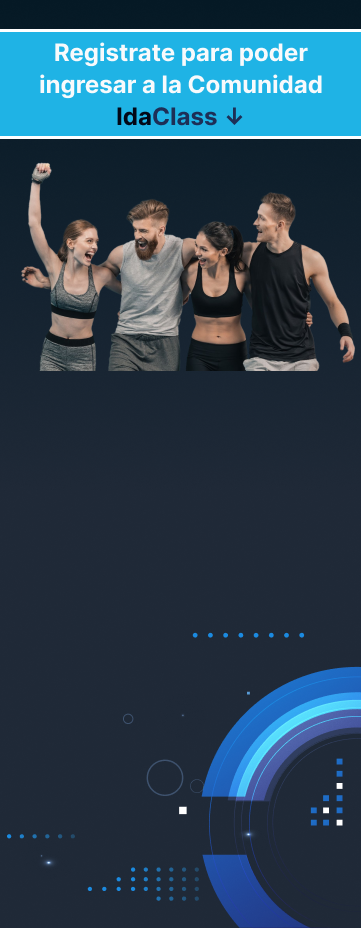
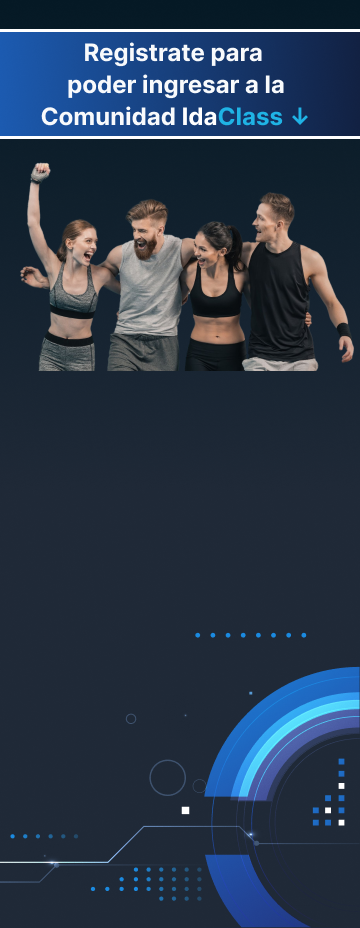
cambios en registro se agrego la forma de registro a la comunidad

diff --git a/app/signin/_components/registerForm.jsx b/app/signin/_components/registerForm.jsx
@@ -1,3 +1,4 @@
+"use client"
 import { Button } from "@/components/ui/button";
 import { zodResolver } from "@hookform/resolvers/zod";
 import { useForm } from "react-hook-form";
@@ -41,14 +42,14 @@ const RegisterForm = () => {
 
   return (
     <Form {...form}>
-      <form onSubmit={form.handleSubmit(onSubmit)} className="space-y-4 ">
+      <form onSubmit={form.handleSubmit(onSubmit)} className="space-y-1">
         <div className="flex max-sm:flex-col max-sm:space-y-4 sm:space-x-4">
           <FormField
             control={form.control}
             name="nombre"
             render={({ field }) => (
               <FormItem>
-                <FormLabel className="text-white">Nombre</FormLabel>
+                <FormLabel className="">Nombre</FormLabel>
                 <FormControl>
                   <Input placeholder="Nombre" {...field} />
                 </FormControl>
@@ -62,7 +63,7 @@ const RegisterForm = () => {
             name="apellido"
             render={({ field }) => (
               <FormItem>
-                <FormLabel className="text-white">Apellido</FormLabel>
+                <FormLabel className="">Apellido</FormLabel>
                 <FormControl>
                   <Input placeholder="Apellido" {...field} />
                 </FormControl>
@@ -77,7 +78,7 @@ const RegisterForm = () => {
           name="email"
           render={({ field }) => (
             <FormItem>
-              <FormLabel className="text-white">Email</FormLabel>
+              <FormLabel className="">Email</FormLabel>
               <FormControl>
                 <Input placeholder="Email"  {...field} />
               </FormControl>
@@ -91,7 +92,7 @@ const RegisterForm = () => {
           name="password"
           render={({ field }) => (
             <FormItem>
-              <FormLabel className="text-white">Contraseña</FormLabel>
+              <FormLabel className="">Contraseña</FormLabel>
               <FormControl>
                 <Input placeholder="*******" type="password" {...field} />
               </FormControl>
@@ -105,7 +106,7 @@ const RegisterForm = () => {
           name="confirm"
           render={({ field }) => (
             <FormItem>
-              <FormLabel className="text-white" type="password">
+              <FormLabel className="" type="password">
                 Repite tu contraseña
               </FormLabel>
               <FormControl>
@@ -116,9 +117,11 @@ const RegisterForm = () => {
             </FormItem>
           )}
         />
-        <Button type="submit" className="w-full">
+        <div className="pt-3">
+        <Button type="submit" className="w-full rounded-3xl">
           Registrarme
         </Button>
+        </div>
       </form>
     </Form>
   );

diff --git a/app/comunidad/components/ComunidadRegistro.jsx b/app/comunidad/components/ComunidadRegistro.jsx
@@ -1,25 +1,15 @@
 import Image from "next/image";
 import bg from "../../../public/comunidad/ImagendefondoFormulario.png";
 import bgWeb from "../../../public/comunidad/ImagendefondoFormularioWeb.png";
+import RegisterForm from "@/app/signin/_components/registerForm";
 
 const ComunidadRegistro = () => {
   return (
-    <section className="container px-0 my-12 relative min-h-[30rem]">
+    <section className="container px-0 my-12 relative min-h-[32rem]">
       <Image src={bg} alt="" className="object-cover -z-10 max-lg:hidden" />
       <Image src={bgWeb} alt="" className="object-cover -z-10 lg:hidden w-full bg-black"/>
-      <div className="container w-full flex gap-12">
-        {/* <div className="w-full text-white font-bold text-center text-2xl ">
-          <h2 className="mt-8">
-            Registrate para poder ingresar a la <br /> Comunidad Ida
-            <span className="text-idaclass3">
-              Class <ArrowRight className="inline" size={32} strokeWidth={3}/>
-            </span>
-          </h2>
- 
-        </div> */}
-        {/* <div className="w-1/3 ml-auto bg-emerald-200 min-h-[30rem]">
-          <h1>formulario</h1>
-        </div> */}
+      <div className="absolute lg:top-8 top-[35%] right-[50%] translate-x-[50%] bg-gray-100 px-8 py-2 max-w-sm w-full rounded-2xl ">
+      <RegisterForm/>
       </div>
     </section>
   );

diff --git a/app/signin/page.jsx b/app/signin/page.jsx
@@ -12,11 +12,11 @@ import LoginForm from "./_components/loginForm";
 export default function SignIn() {
   return (
     <main className="min-h-[645px] bg-neutral-950 relative flex flex-col justify-start py-12">
-      <div className="container py-4 flex flex-col border-2 border-idaclass3 space-y-4 bg-slate-900 rounded-lg shadow-lg z-10 w-[28rem] max-w-[90vw]">
+      <div className="container py-4 flex flex-col border-2 border-idaclass3 space-y-4 bg-gray-100 rounded-lg shadow-lg z-10 w-[28rem] max-w-[90vw]">
         <Tabs defaultValue="login">
           <TabsList className="grid w-full grid-cols-2">
-            <TabsTrigger value="login">Ingresar</TabsTrigger>
-            <TabsTrigger value="registro">Crear cuenta</TabsTrigger>
+            <TabsTrigger value="login" className={"rounded-l-3xl"}>Ingresar</TabsTrigger>
+            <TabsTrigger value="registro" className={"rounded-r-3xl"}>Crear cuenta</TabsTrigger>
           </TabsList>
           <TabsContent value="login">
             <LoginForm />

diff --git a/components/ui/tabs.jsx b/components/ui/tabs.jsx
@@ -22,7 +22,7 @@ const TabsTrigger = React.forwardRef(({ className, ...props }, ref) => (
   <TabsPrimitive.Trigger
     ref={ref}
     className={cn(
-      "inline-flex items-center justify-center whitespace-nowrap rounded-sm px-3 py-1.5 text-sm font-medium ring-offset-background transition-all focus-visible:outline-none focus-visible:ring-2 focus-visible:ring-ring focus-visible:ring-offset-2 disabled:pointer-events-none disabled:opacity-50 data-[state=active]:bg-idaclass4 data-[state=active]:text-white data-[state=active]:shadow-sm",
+      "inline-flex items-center justify-center whitespace-nowrap rounded-sm px-3 py-1.5 text-sm font-medium ring-offset-background transition-all focus-visible:outline-none focus-visible:ring-2 focus-visible:ring-ring focus-visible:ring-offset-2 disabled:pointer-events-none disabled:opacity-50 bg-gray-400 data-[state=active]:bg-idaclass4 text-white data-[state=active]:shadow-sm",
       className
     )}
     {...props} />

diff --git a/app/signin/_components/loginForm.jsx b/app/signin/_components/loginForm.jsx
@@ -55,7 +55,7 @@ const LoginForm = () => {
           name="email"
           render={({ field }) => (
             <FormItem>
-              <FormLabel className="text-white">Email</FormLabel>
+              <FormLabel className="">Email</FormLabel>
               <FormControl>
                 <Input placeholder="Email" type="email" {...field} />
               </FormControl>
@@ -69,7 +69,7 @@ const LoginForm = () => {
           name="password"
           render={({ field }) => (
             <FormItem>
-              <FormLabel className="text-white">Contraseña</FormLabel>
+              <FormLabel className="">Contraseña</FormLabel>
               <FormControl>
                 <Input placeholder="*******" type="password" {...field} />
               </FormControl>
